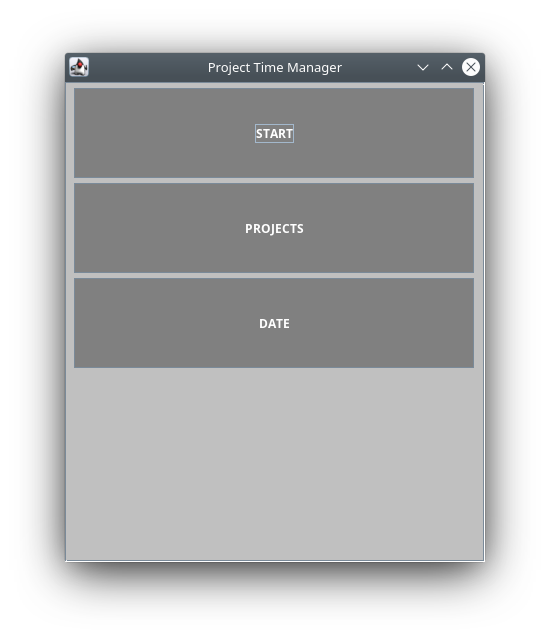
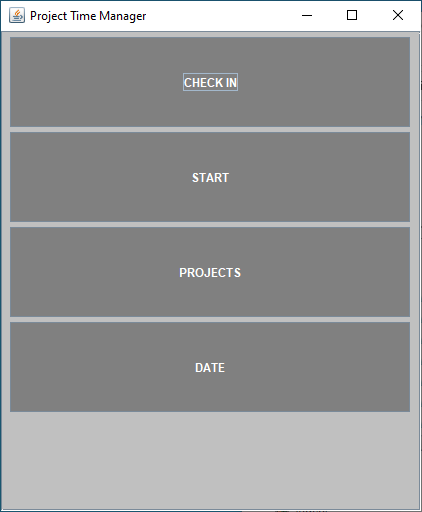
update screenshots and readme

diff --git a/README.md b/README.md
@@ -7,7 +7,7 @@ This toy project contains easy-to-use time logger with clear text log files (for
 
 # Start
 
-java Main x
+java Main
 
 # Operations
 
@@ -16,10 +16,15 @@ java Main x
 
 # Functions
 
+- **check in** check in immediately and start a project with name MONTH_YEAR
 - **start** start a new project (editable text field) or continue an existing project, hit ctrl-c when the work is
 paused or ended
 - **projects** show the sum of time for projects or select and show the log for one project
 - **date** show the logs on different dates
+
+# Report
+
+Report for project (now only tested for check-in) can be generated in RTF format.
 
 # Logs
 
